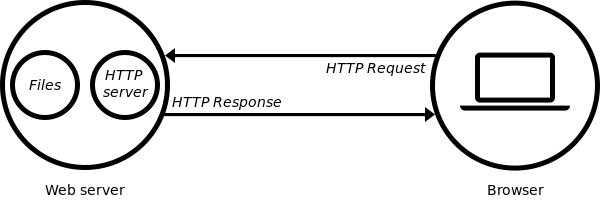
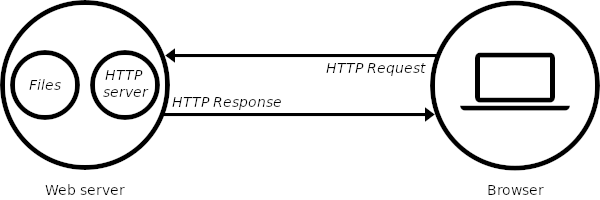
some changes

diff --git a/http_tcpServer.cpp b/http_tcpServer.cpp
@@ -1,4 +1,4 @@
-#include <http_tcpServer.h>
+#include "http_tcpServer.h"
 
 #include <iostream>
 #include <sstream>

diff --git a/README.md b/README.md
@@ -1,5 +1,7 @@
 # HTTP Server
 
+![diagram](diagram.png)
+
 > An HTTP server built from scratch in C++ using raw sockets, without any frameworks.
 
 ## Requirements
@@ -44,3 +46,4 @@ The server creates a TCP socket, binds it to an address and port, starts listeni
 ├── http_tcpServer.cpp      # TcpServer implementation
 └── diagram.png             # Architecture diagram
 ```
+![details](details.png)
